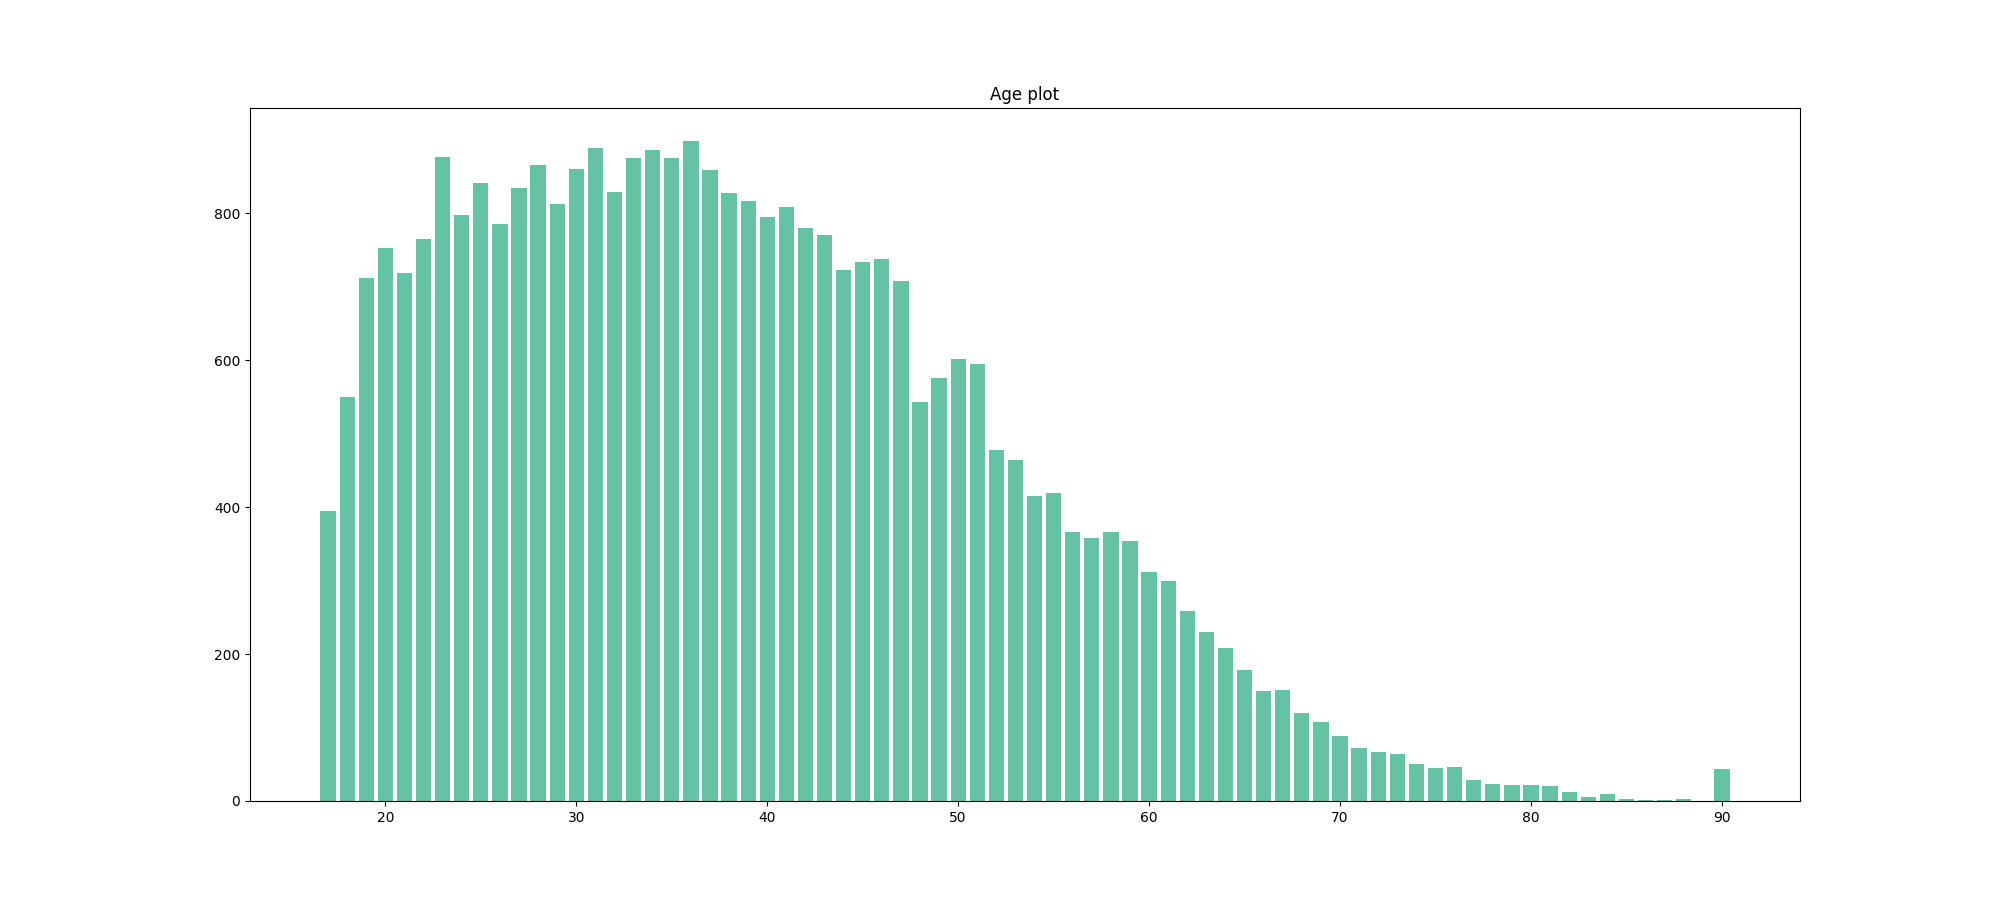
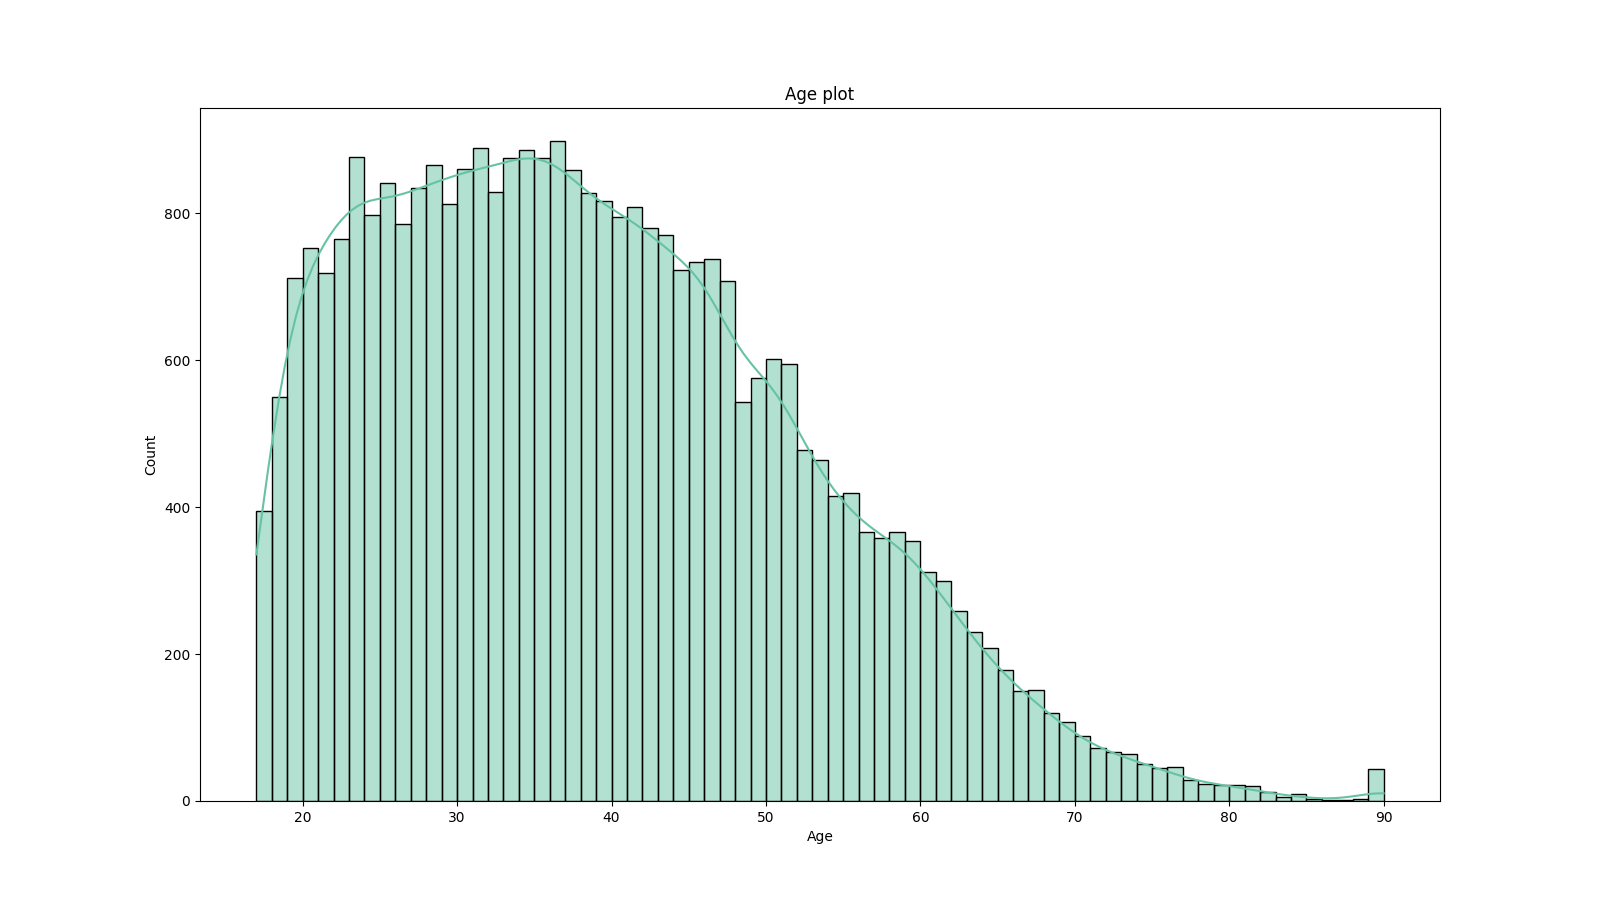
Add binwidth for histplot

diff --git a/cleanData.py b/cleanData.py
@@ -28,11 +28,11 @@ dataClean.to_csv("data_clean/dataclean.csv")
 
 # ---------- Plot data ---------- #
 
+useHistplot = ["Age"]
 hasBinaryLabel = ["Property owner", "Other asset", "Gender", "Income"]
 hasExtraHeight = ["Native country"]
 hasVerticalLabel = ["Native country"]
 hasCount = ["Workclass", "Race", "Work hours per week", "Other asset"]
-histPlot = ["Age"]
 
 for item in dataClean.columns.values:
 
@@ -42,9 +42,7 @@ for item in dataClean.columns.values:
         var, count = np.unique(dataClean[f'{item}'], return_counts = True)
 
     # Set size of the plot
-    if (item in histPlot):
-        figSize=(20,9)
-    elif (item in hasBinaryLabel):
+    if (item in hasBinaryLabel):
         figSize=(7, 7)
     elif (item in hasExtraHeight): 
         figSize=(12, 19)
@@ -57,8 +55,8 @@ for item in dataClean.columns.values:
     fig, ax = plt.subplots(figsize=figSize)
     ax.set_title(f'{item} plot')
 
-    if (item in histPlot):
-        ax.bar(var, count)
+    if (item in useHistplot):
+        sns.histplot(data=dataClean[f'{item}'], binwidth=1, kde=True)
     else:
         sns.barplot(x=var, y=count)
 
